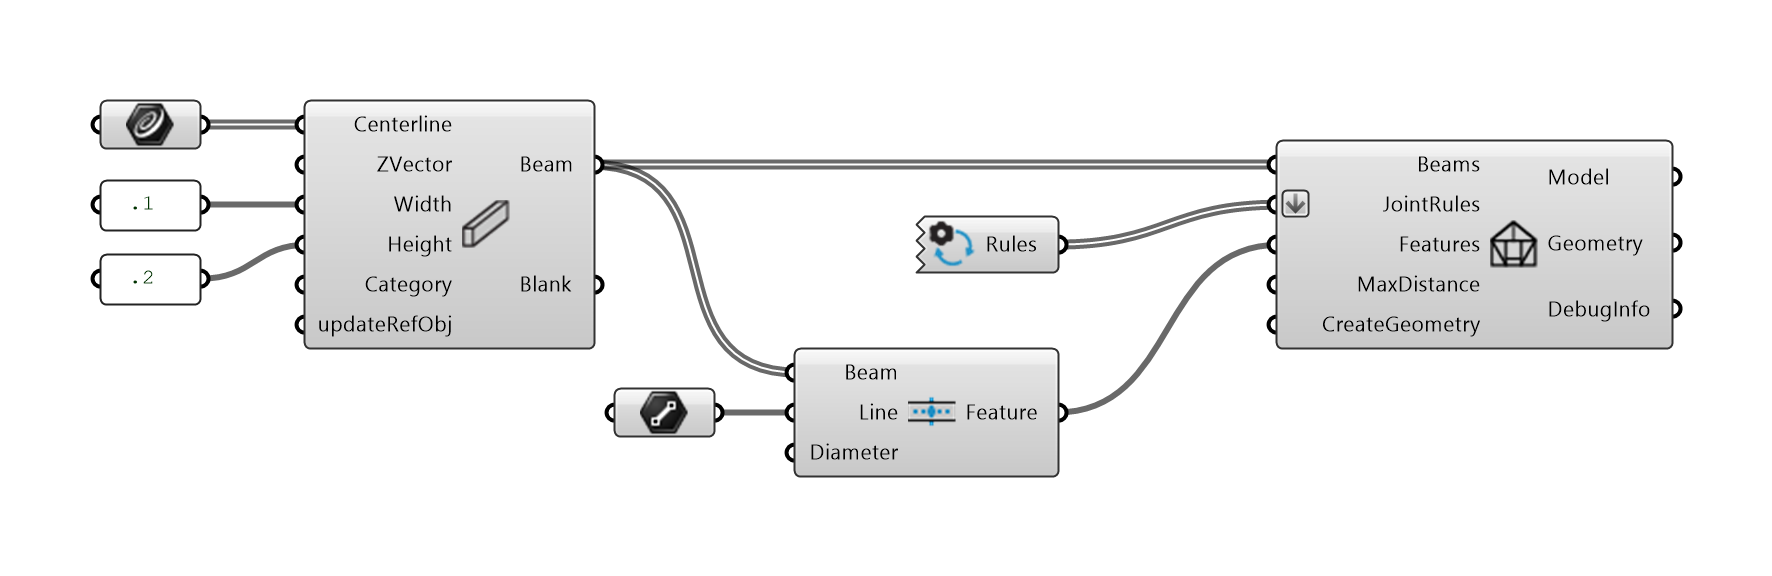
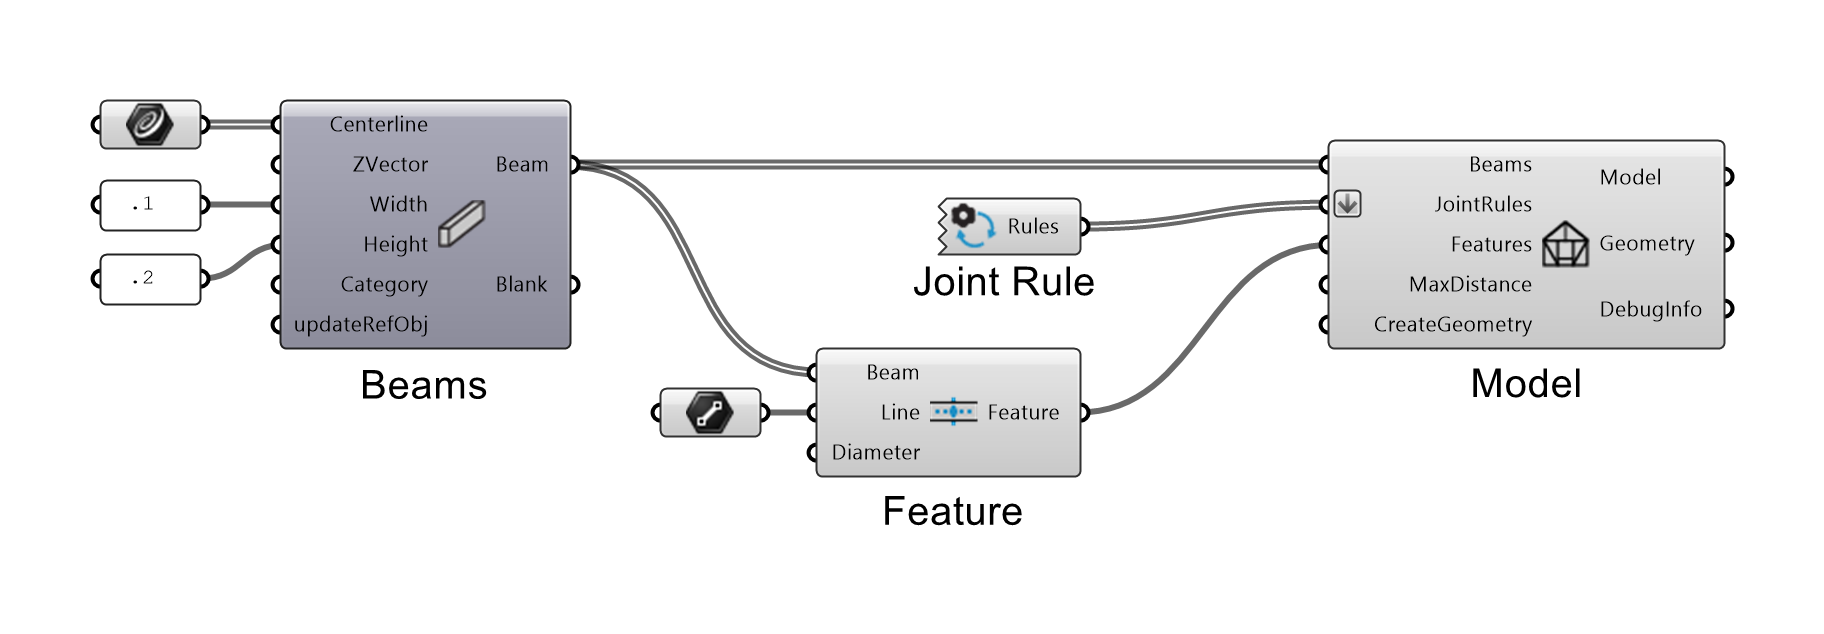
update joint rules documentation

Changed region(s): [[0.031, 0.1562, 0.9622, 0.8438]]

diff --git a/docs/tutorials/grasshopper/joint_rules.rst b/docs/tutorials/grasshopper/joint_rules.rst
@@ -4,9 +4,6 @@ Joint Rules
 
 The Joints between :doc:`beams` are defined by Joint Rules. There are four kinds of rules, where each of them overrides any lower-priority rule. The rules are listed hereafter from lowest to highest level of priority:
 
-.. image:: ../images/gh_joint_rules_components.png
-    :width: 100%
-
 .. note::
 
     **Joint Topologies**
@@ -23,30 +20,35 @@ Joint Rules Components
 
     **Dynamic Components**
 
-    The Joint Rules Components are dynamic: 
-    First place them on the Grasshopper Canvas. 
-    Now you can define the Joint they should apply by Right-Click & Selection from the Drop-Down List.
+    The Joint Rules Components are dynamic: First place them on the Grasshopper Canvas. Now you can define the Joint they should apply by Right-Click & Selection from the Drop-Down List.
 |
 
-1. **Default Joint Rules** - This Component applies a L-Miter to all L-Topologies, a T-Butt to all T-Topologies 
-   and a X-HalfLap to all X-Topologies. 
+1. **Default Joint Rules** - This Component applies a L-Miter to all L-Topologies, a T-Butt to all T-Topologies and a X-HalfLap to all X-Topologies. 
+
+.. image:: ../images/gh_joint_rules_default.png
+    :width: 20%
 |
-2. **Topological Joint Rules** - These Joint Rules are more specific and will overwrite the Default Joint Rules.
-   The inputs are variable and depend on the joint type.
+2. **Topological Joint Rules** - These Joint Rules are more specific and will overwrite the Default Joint Rules. The inputs are variable and depend on the joint type.
 
    *   **L Topological Joint Rules:** This Component applies the L-Joint you select to all L-Topologies.
    *   **T Topological Joint Rules:** This Component applies the T-Joint you select to all T-Topologies.
    *   **X Topological Joint Rules:** This Component applies the X-Joint you select to all X-Topologies.
 |
-3. **Category Joint Rules** - This Joint Rule will overwrite all Topological Joint Rules. 
-   The Component defines a Joint type for all Joints between two beam Categories. 
-   The Categories are assigned through the string-input `Category` in the component :code:`Beam`. 
-   The inputs are variable and depend on the joint type. 
+.. image:: ../images/gh_joint_rules_topological.png
+    :width: 100%
+
 |
-4. **Direct Joint Rules** - This Joint Rule is highly specific and will overwrite every other Joint Rule.
-   The Component assigns a Joint type directly to specific beams. 
-   The Beams can be selected using the component :code:`Find Beam By Rhino GUID` See also :doc:`beam`.
-   The inputs are variable and depend on the joint type. 
+3. **Category Joint Rules** - This Joint Rule will overwrite all Topological Joint Rules. The Component defines a Joint type for all Joints between two beam Categories. The Categories are assigned through the string-input `Category` in the component :code:`Beam`. The inputs are variable and depend on the joint type. 
+
+.. image:: ../images/gh_joint_rules_category.png
+    :width: 40%
+
+|
+4. **Direct Joint Rules** - This Joint Rule is highly specific and will overwrite every other Joint Rule. The Component assigns a Joint type directly to specific beams. The Beams can be selected using the component :code:`Find Beam By Rhino GUID` See also :doc:`beams`. The inputs are variable and depend on the joint type.
+
+.. image:: ../images/gh_joint_rules_direct.png
+    :width: 35%
+
 |
 
 Joint Types
@@ -71,8 +73,7 @@ Inputs:
 L-HalfLap
 ^^^^^^^^^
 
-The *L-Half Lap* topology is when two beams meet at their ends at an angle.
-An L-Half Lap joint extends the two beams while removing the upper half of the overlap of one beam and the lower half of the overlaps the other to create a clean corner joint.
+The *L-Half Lap* topology is when two beams meet at their ends at an angle. An L-Half Lap joint extends the two beams while removing the upper half of the overlap of one beam and the lower half of the overlaps the other to create a clean corner joint.
 
 .. image:: ../images/gh_joint_L-HalfLap.png
     :width: 40%
@@ -96,11 +97,11 @@ Inputs:
 
 * `cutoff` : #TODO
 
-French Ridge Lap (not fully implemented)
+French Ridge Lap
 ^^^^^^^^^^^^^^^^
 
-The French ridge lap joint extends two beams and removes the upper half of the overlap on one beam and the lower half on the other.
-Unlike the L-Half Lap (presented above) joint, where the cut is made parallel in the centre of the beams, the cut of the French ridge lap joint is angled to keep the beams securely in place, preventing them from shifting.
+.. important::
+    The French Ridge Lap is not yet fully implemented. It doesn't create the Beam Geometry in Grssshopper. The French ridge lap joint extends two beams and removes the upper half of the overlap on one beam and the lower half on the other. Unlike the L-Half Lap (presented above) joint, where the cut is made parallel in the centre of the beams, the cut of the French ridge lap joint is angled to keep the beams securely in place, preventing them from shifting.
 
 The tilted cut plane is generated by sequentially connecting the following points:
 

diff --git a/docs/tutorials/grasshopper/design.rst b/docs/tutorials/grasshopper/design.rst
@@ -8,13 +8,19 @@ Design Components help to generate standard Wall structures from Surfaces, using
     :width: 60%
 |
 Surface Model
--------------
+^^^^^^^^^^^^^
 Creates a Model from a Surface
 
 Inputs:
 
-* `surface` - Surface
-...
+* `surface` - :code:`Surface` that represents the Wall Dimensions
+* `stud_spacing` - :code:`Number`: Spacing between the Studs
+* `beam_width` - :code:`Number`: Width of the Beams
+* `frame_depth` - :code:`Number`: Depth of the Frame = Height of the Beams
+* `stud_direction` - :code:`Vector` or :code:`Line`: Optional, control Stud Direction
+* `options` - Surface Model Options Component
+* `CreateGeometry` - :code:`Boolean`: Set to True if Joint Geometry should be generated
+|
 
 Outputs:
 
@@ -23,13 +29,17 @@ Outputs:
 *   `DebugInfo` : Debug information object in the case of feature or joining errors.
 
 Surface Model Options
----------------------
+^^^^^^^^^^^^^^^^^^^^^
 Creates the Options for the Surface Model
 
 Inputs:
 
-* `sheeting_outside` - Surface
-...
+* `sheeting_outside` - :code:`Boolean`: True if Sheeting on the outside should be generated
+* `sheeting_inside` - :code:`Boolean`: True if Sheeting on the inside should be generated
+* `lintel_posts` - :code:`Boolean`: #TODO
+* `edge_stud_offset` - :code:`Number`: #TODO
+* `custom_dimensions` - Custom Dimensions Component
+* `joint_overrides` - #TODO
 
 Outputs:
 

diff --git a/docs/tutorials/grasshopper/model.rst b/docs/tutorials/grasshopper/model.rst
@@ -3,7 +3,7 @@ Model
 *****
 
 **Assembly** component creates a structure composed of joined :code:`Beam` objects. It connects the beams with joints and adds
-features based on the :doc:`joints` and :doc:`features` inputs provided.
+features based on the :doc:`joint_rules` and :doc:`features` inputs provided.
 
 Geometric operations like cutting, trimming and solid boolean subtractions, which are implied by joints and features,
 may be computationally expensive, and are disabled by default.

diff --git a/docs/tutorials/grasshopper/features.rst b/docs/tutorials/grasshopper/features.rst
@@ -23,7 +23,7 @@ Features are additional geometric operations on beams:
 * `Beam` : the beam to be trimmed
 * `Plane` : the plane to trim the beam as a surface
 
-The output `Feature` is to be used as input for the **Assembly** component. See :doc:`assembly`.
+The output `Feature` is to be used as input for the **Model** component. See :doc:`model`.
 
 .. image:: ../images/gh_features.png
   :width: 51%
